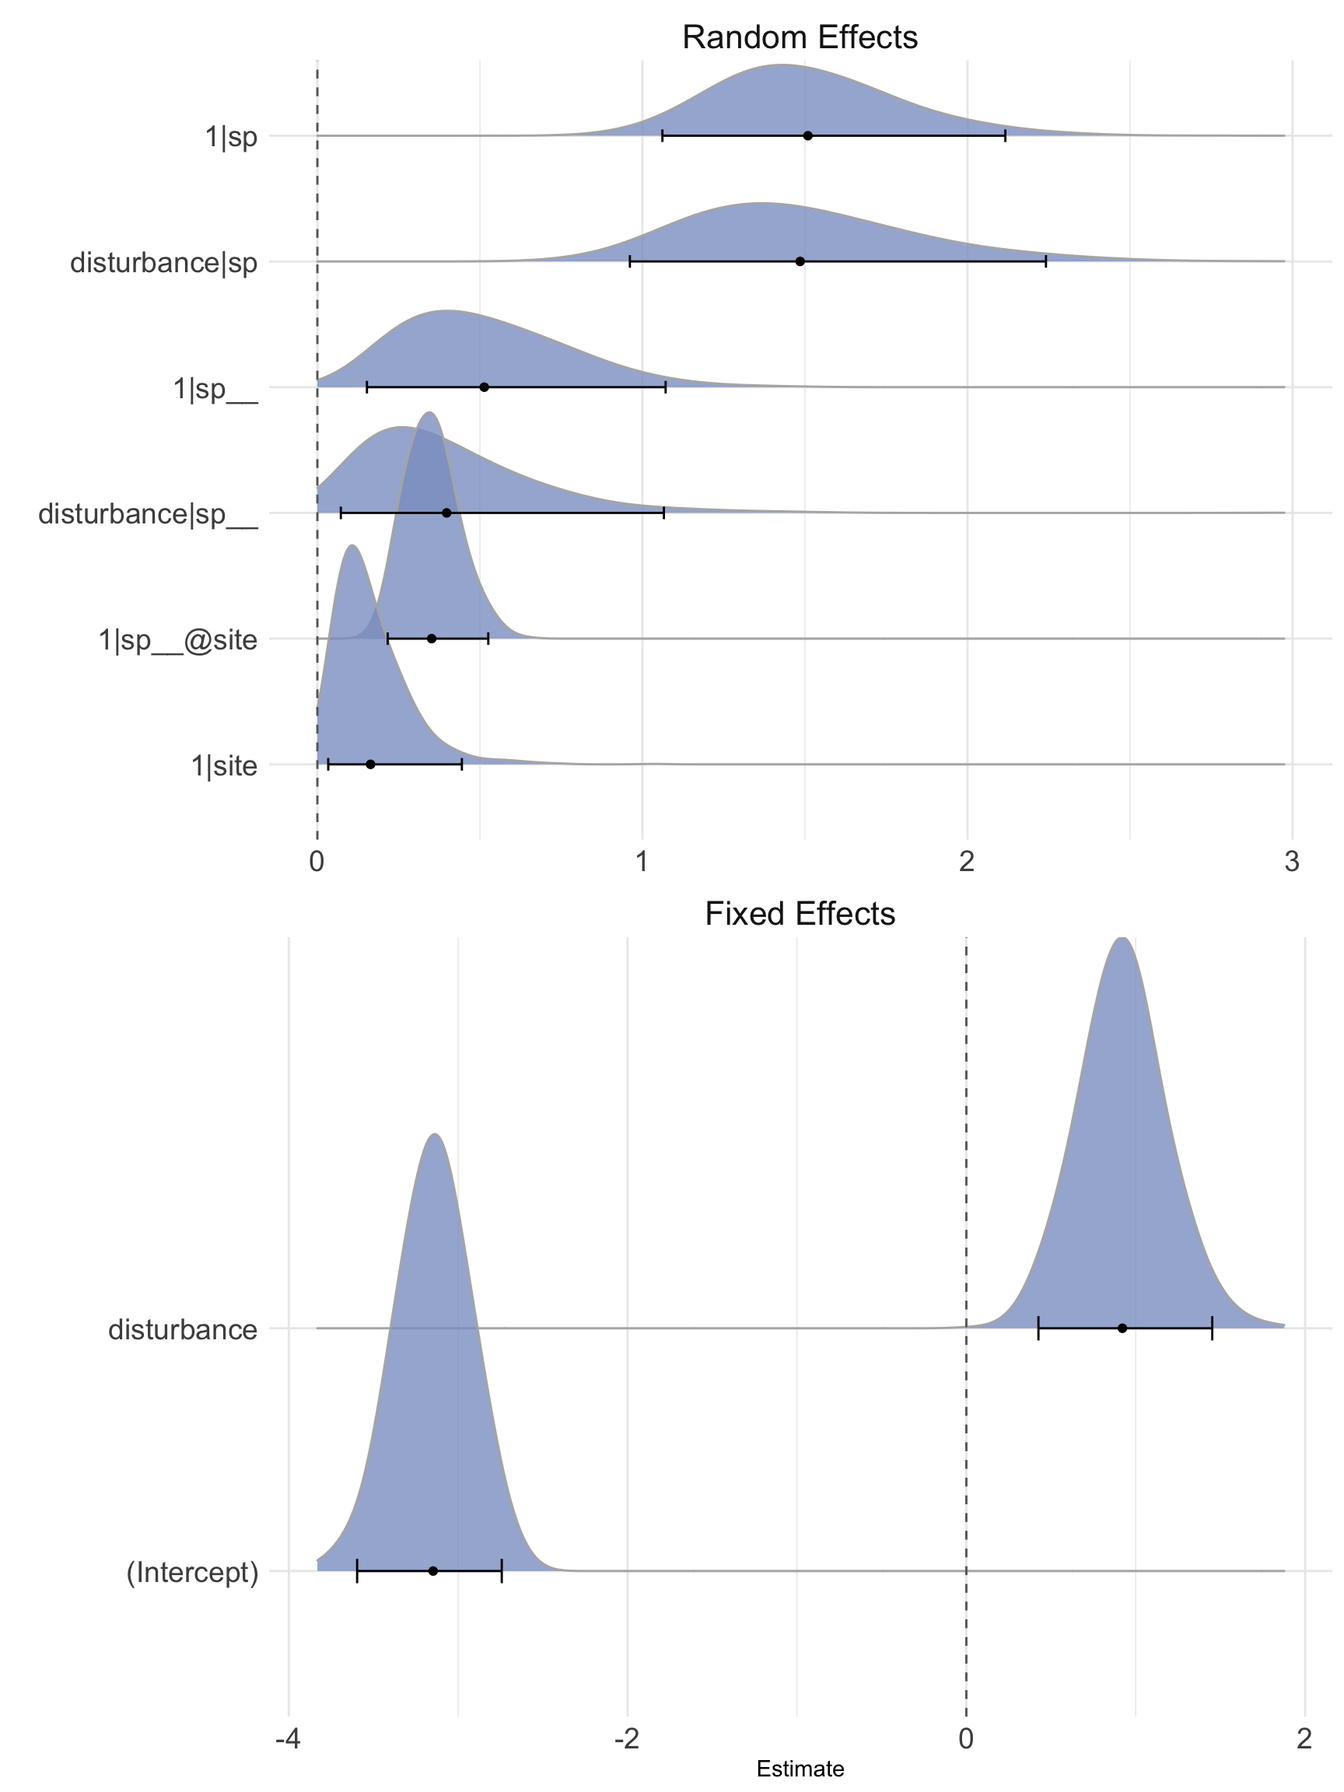
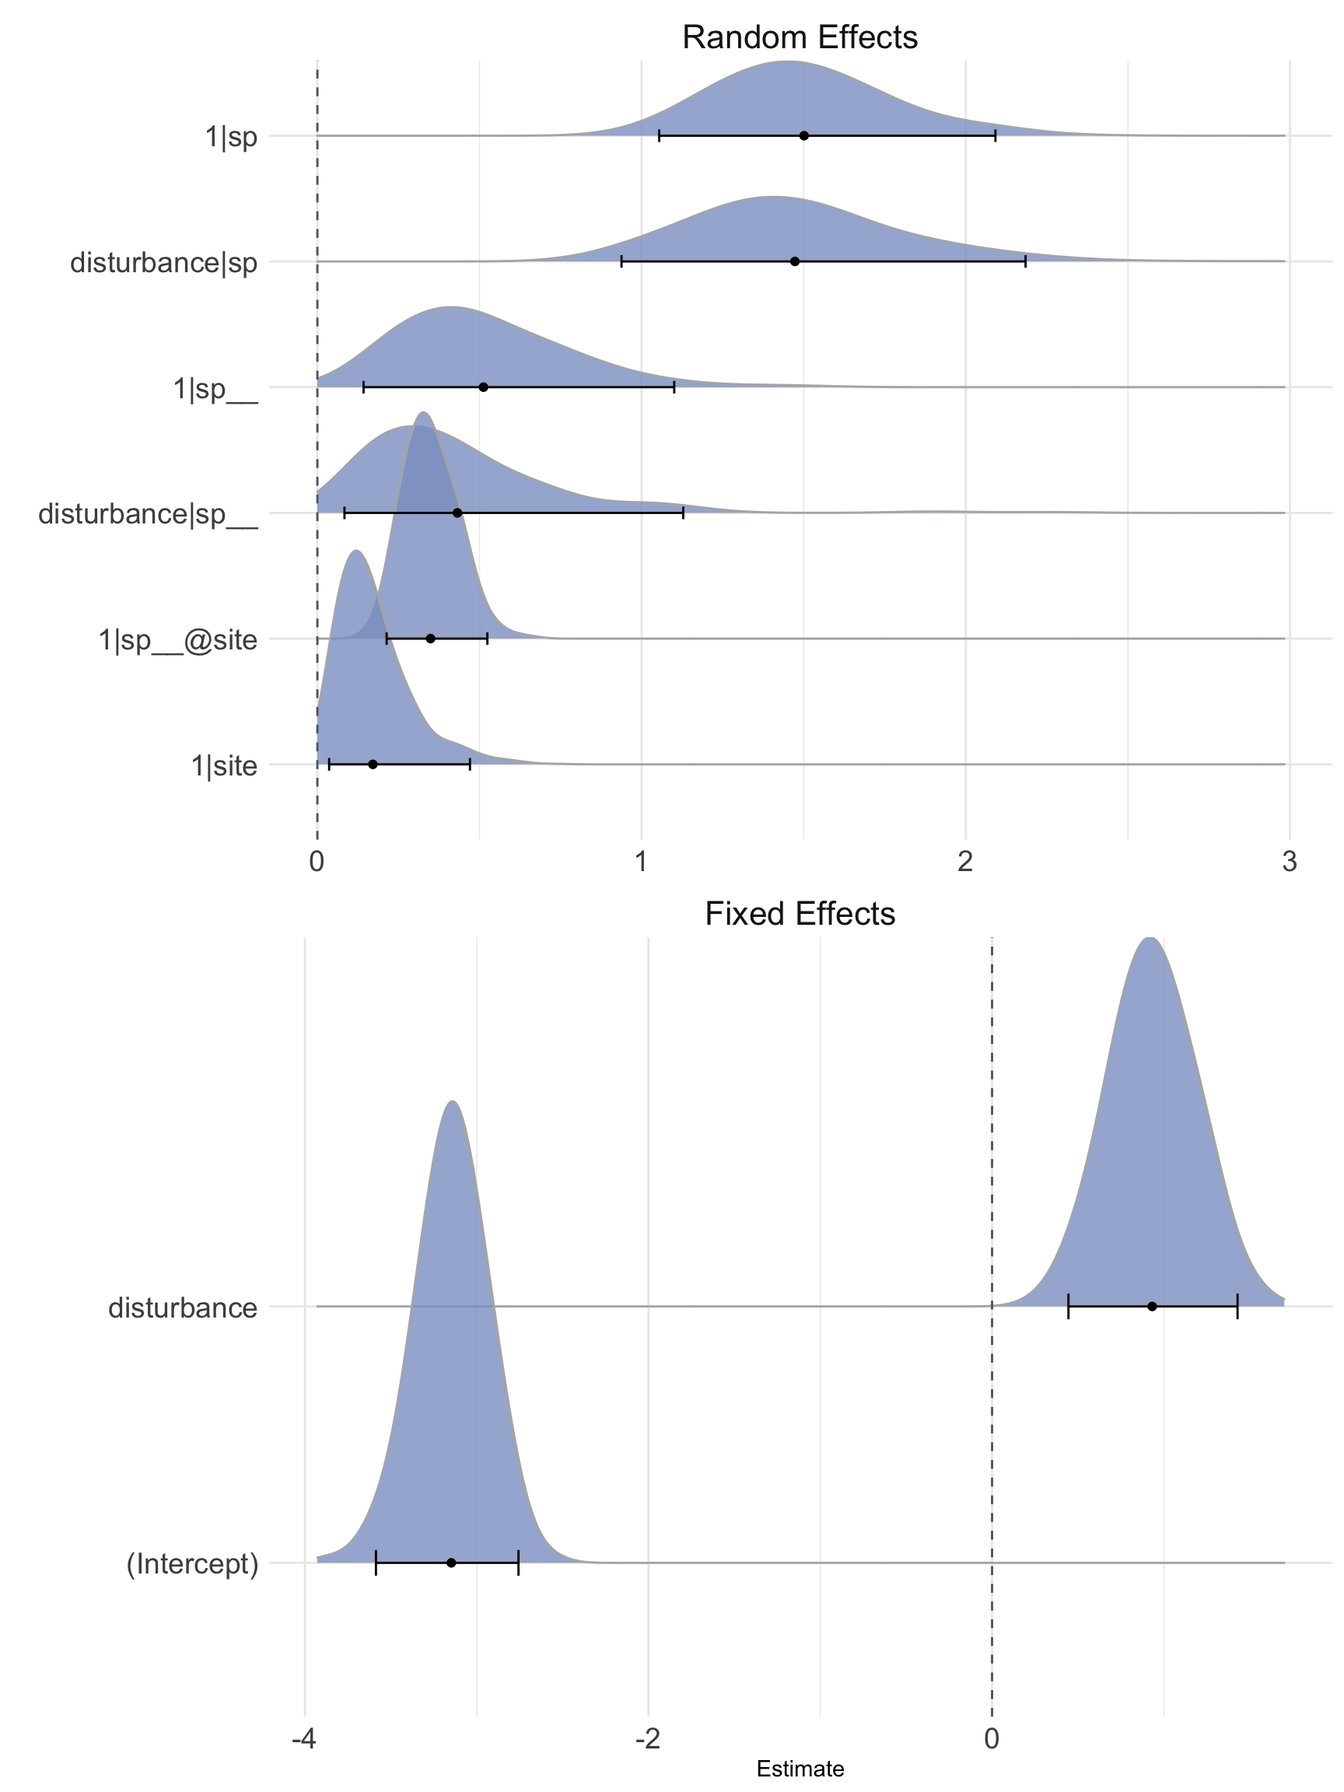
update pkgdown website [skip ci]

diff --git a/docs/articles/phyr_example_empirical.html b/docs/articles/phyr_example_empirical.html
@@ -5,13 +5,13 @@
 <meta charset="utf-8">
 <meta http-equiv="X-UA-Compatible" content="IE=edge">
 <meta name="viewport" content="width=device-width, initial-scale=1.0">
-<title>phyr_example_empirical • phyr</title>
+<title>pglmm example with empirical data • phyr</title>
 <!-- jquery --><script src="https://cdnjs.cloudflare.com/ajax/libs/jquery/3.4.1/jquery.min.js" integrity="sha256-CSXorXvZcTkaix6Yvo6HppcZGetbYMGWSFlBw8HfCJo=" crossorigin="anonymous"></script><!-- Bootstrap --><link rel="stylesheet" href="https://cdnjs.cloudflare.com/ajax/libs/twitter-bootstrap/3.4.1/css/bootstrap.min.css" integrity="sha256-bZLfwXAP04zRMK2BjiO8iu9pf4FbLqX6zitd+tIvLhE=" crossorigin="anonymous">
 <script src="https://cdnjs.cloudflare.com/ajax/libs/twitter-bootstrap/3.4.1/js/bootstrap.min.js" integrity="sha256-nuL8/2cJ5NDSSwnKD8VqreErSWHtnEP9E7AySL+1ev4=" crossorigin="anonymous"></script><!-- bootstrap-toc --><link rel="stylesheet" href="../bootstrap-toc.css">
 <script src="../bootstrap-toc.js"></script><!-- Font Awesome icons --><link rel="stylesheet" href="https://cdnjs.cloudflare.com/ajax/libs/font-awesome/5.12.1/css/all.min.css" integrity="sha256-mmgLkCYLUQbXn0B1SRqzHar6dCnv9oZFPEC1g1cwlkk=" crossorigin="anonymous">
 <link rel="stylesheet" href="https://cdnjs.cloudflare.com/ajax/libs/font-awesome/5.12.1/css/v4-shims.min.css" integrity="sha256-wZjR52fzng1pJHwx4aV2AO3yyTOXrcDW7jBpJtTwVxw=" crossorigin="anonymous">
 <!-- clipboard.js --><script src="https://cdnjs.cloudflare.com/ajax/libs/clipboard.js/2.0.6/clipboard.min.js" integrity="sha256-inc5kl9MA1hkeYUt+EC3BhlIgyp/2jDIyBLS6k3UxPI=" crossorigin="anonymous"></script><!-- headroom.js --><script src="https://cdnjs.cloudflare.com/ajax/libs/headroom/0.11.0/headroom.min.js" integrity="sha256-AsUX4SJE1+yuDu5+mAVzJbuYNPHj/WroHuZ8Ir/CkE0=" crossorigin="anonymous"></script><script src="https://cdnjs.cloudflare.com/ajax/libs/headroom/0.11.0/jQuery.headroom.min.js" integrity="sha256-ZX/yNShbjqsohH1k95liqY9Gd8uOiE1S4vZc+9KQ1K4=" crossorigin="anonymous"></script><!-- pkgdown --><link href="../pkgdown.css" rel="stylesheet">
-<script src="../pkgdown.js"></script><meta property="og:title" content="phyr_example_empirical">
+<script src="../pkgdown.js"></script><meta property="og:title" content="pglmm example with empirical data">
 <meta property="og:description" content="phyr">
 <!-- mathjax --><script src="https://cdnjs.cloudflare.com/ajax/libs/mathjax/2.7.5/MathJax.js" integrity="sha256-nvJJv9wWKEm88qvoQl9ekL2J+k/RWIsaSScxxlsrv8k=" crossorigin="anonymous"></script><script src="https://cdnjs.cloudflare.com/ajax/libs/mathjax/2.7.5/config/TeX-AMS-MML_HTMLorMML.js" integrity="sha256-84DKXVJXs0/F8OTMzX4UR909+jtl4G7SPypPavF+GfA=" crossorigin="anonymous"></script><!--[if lt IE 9]>
 <script src="https://oss.maxcdn.com/html5shiv/3.7.3/html5shiv.min.js"></script>
@@ -60,7 +60,7 @@
       <a href="../articles/pglmm.html">Usage of pglmm()</a>
     </li>
     <li>
-      <a href="../articles/phyr_example_empirical.html">phyr_example_empirical</a>
+      <a href="../articles/phyr_example_empirical.html">pglmm example with empirical data</a>
     </li>
     <li>
       <a href="../articles/plot-re.html">Plot random terms of communityPGLMM</a>
@@ -91,7 +91,7 @@
       </header><div class="row">
   <div class="col-md-9 contents">
     <div class="page-header toc-ignore">
-      <h1 data-toc-skip>phyr_example_empirical</h1>
+      <h1 data-toc-skip>pglmm example with empirical data</h1>
             
       
       <small class="dont-index">Source: <a href="https://github.com/daijiang/phyr/blob/master/vignettes/phyr_example_empirical.Rmd"><code>vignettes/phyr_example_empirical.Rmd</code></a></small>
@@ -113,6 +113,14 @@
 <span class="fu"><a href="https://rdrr.io/r/base/library.html">library</a></span>(<span class="kw"><a href="https://github.com/daijiang/phyr">phyr</a></span>)
 <span class="fu"><a href="https://rdrr.io/r/base/library.html">library</a></span>(<span class="kw"><a href="http://ape-package.ird.fr">ape</a></span>)
 <span class="fu"><a href="https://rdrr.io/r/base/library.html">library</a></span>(<span class="kw"><a href="https://dplyr.tidyverse.org">dplyr</a></span>)
+<span class="co">#&gt; </span>
+<span class="co">#&gt; Attaching package: 'dplyr'</span>
+<span class="co">#&gt; The following objects are masked from 'package:stats':</span>
+<span class="co">#&gt; </span>
+<span class="co">#&gt;     filter, lag</span>
+<span class="co">#&gt; The following objects are masked from 'package:base':</span>
+<span class="co">#&gt; </span>
+<span class="co">#&gt;     intersect, setdiff, setequal, union</span>
 <span class="fu"><a href="https://rdrr.io/r/utils/data.html">data</a></span>(<span class="st">"oldfield"</span>)
 </pre></div>
 <p>The data is a list with two elements. The first element is a phylogeny containing 47 species of plants (all herbaceous forbs) that live in old field habitats in Southern Ontario, Canada. Oldfield habitats typically are found in areas that were formerly cultivated but are now abandoned. This is often considered a successional stage between farmland and secondary forest. This data comes from plots that had experience two “treatments”, one set of plots had been disturbed by field ploughing within a few years of sampling, the other set had not been disturbed in this way recently. Let’s have a look at the phylogeny and data.</p>
@@ -253,17 +261,17 @@
 <span class="co">#&gt; </span>
 <span class="co">#&gt; Random effects:</span>
 <span class="co">#&gt;                  Variance Std.Dev lower.CI upper.CI</span>
-<span class="co">#&gt; 1|sp             2.066571 1.43756 1.097755   4.5151</span>
-<span class="co">#&gt; 1|sp__           0.106195 0.32588 0.020672   1.2172</span>
-<span class="co">#&gt; 1|site           0.007038 0.08389 0.001174   0.1937</span>
-<span class="co">#&gt; disturbance|sp   1.902315 1.37924 0.904636   4.9701</span>
-<span class="co">#&gt; disturbance|sp__ 0.036600 0.19131 0.005833   1.1108</span>
-<span class="co">#&gt; 1|sp__@site      0.103666 0.32197 0.043608   0.2873</span>
+<span class="co">#&gt; 1|sp             2.065600 1.43722 1.097168   4.5138</span>
+<span class="co">#&gt; 1|sp__           0.106341 0.32610 0.020707   1.2167</span>
+<span class="co">#&gt; 1|site           0.007018 0.08377 0.001170   0.1936</span>
+<span class="co">#&gt; disturbance|sp   1.900503 1.37859 0.903554   4.9733</span>
+<span class="co">#&gt; disturbance|sp__ 0.036617 0.19136 0.005835   1.1118</span>
+<span class="co">#&gt; 1|sp__@site      0.103652 0.32195 0.043620   0.2873</span>
 <span class="co">#&gt; </span>
 <span class="co">#&gt; Fixed effects:</span>
 <span class="co">#&gt;                Value lower.CI upper.CI</span>
-<span class="co">#&gt; (Intercept) -3.15279 -3.59926  -2.7476</span>
-<span class="co">#&gt; disturbance  0.92866  0.44727   1.4299</span>
+<span class="co">#&gt; (Intercept) -3.15275 -3.59922  -2.7475</span>
+<span class="co">#&gt; disturbance  0.92867  0.44728   1.4299</span>
 </pre></div>
 <p>“pc.prior.auto” is a good choice of prior I find for binomial models. If you are interested in the details of this kind of prior (known as a penalising complexity prior), check out this paper: <a href="https://arxiv.org/abs/1403.4630" class="uri">https://arxiv.org/abs/1403.4630</a>.</p>
 <p>The results of this model are consistent with the ML model, which is good to see. Now we also have lower and upper credible intervals. We can look at the full approximate marginal posterior distributions of the random effects and fixed effects with the <code>plot_bayes</code> function.</p>
@@ -304,7 +312,7 @@
 <span class="co">#&gt; Models of class pglmm do not have a R2_resid method.</span>
 <span class="co">#&gt; Models of class pglmm with bayes = TRUE do not have a R2_lik method.</span>
 <span class="co">#&gt;   R2_pred </span>
-<span class="co">#&gt; 0.4586559</span>
+<span class="co">#&gt; 0.4586484</span>
 </pre></div>
 <p>There we go! 0.46 for <code>mod_bayes</code>! We can think of this as saying roughly 46% of our response’s variance has been explained by our model, taking into account the various sources of covariance we modeled, subject to a boatload of assumption and caveats of course. That’s handy! See Ives (2018) for the full description of how this R<sup>2</sup> works.</p>
 </div>

diff --git a/docs/articles/pglmm.html b/docs/articles/pglmm.html
@@ -60,7 +60,7 @@
       <a href="../articles/pglmm.html">Usage of pglmm()</a>
     </li>
     <li>
-      <a href="../articles/phyr_example_empirical.html">phyr_example_empirical</a>
+      <a href="../articles/phyr_example_empirical.html">pglmm example with empirical data</a>
     </li>
     <li>
       <a href="../articles/plot-re.html">Plot random terms of communityPGLMM</a>
@@ -124,14 +124,14 @@
 <p>All models fitted with <code><a href="../reference/pglmm.html">pglmm()</a></code> have class of <code>communityPGLMM</code>. Here is a list of functions that can be used to these models.</p>
 <ul>
 <li>
-<code>pglmm.matrix.structure()</code>: produce the whole covariance matrix</li>
+<code><a href="../reference/pglmm_matrix_structure.html">pglmm_matrix_structure()</a></code>: produce the whole covariance matrix</li>
 <li>
-<code>pglmm.plot.re()</code>: plot images of random term matrix, see vignettes <code>plot-re</code><br>
+<code><a href="../reference/pglmm_plot_ranef.html">pglmm_plot_re()</a></code>: plot images of random term matrix, see vignettes <code>plot-re</code><br>
 </li>
 <li>
-<code>pglmm.predicted.values()</code> or <code><a href="https://rdrr.io/r/stats/fitted.values.html">fitted()</a></code>: extract fitted values</li>
+<code><a href="../reference/pglmm_predicted_values.html">pglmm_predicted_values()</a></code> or <code><a href="https://rdrr.io/r/stats/fitted.values.html">fitted()</a></code>: extract fitted values</li>
 <li>
-<code>pglmm.profile.LRT()</code>: to test significance of random terms; only works with binomial models</li>
+<code><a href="../reference/pglmm_profile_LRT.html">pglmm_profile_LRT()</a></code>: to test significance of random terms; only works with binomial models</li>
 <li>
 <code><a href="https://rdrr.io/r/base/summary.html">summary()</a></code>: summary of model fit</li>
 <li>

diff --git a/docs/reference/pglmm.html b/docs/reference/pglmm.html
@@ -108,7 +108,7 @@ install.packages('INLA', repos='https://www.math.ntnu.no/inla/R/stable') in R." 
       <a href="../articles/pglmm.html">Usage of pglmm()</a>
     </li>
     <li>
-      <a href="../articles/phyr_example_empirical.html">phyr_example_empirical</a>
+      <a href="../articles/phyr_example_empirical.html">pglmm example with empirical data</a>
     </li>
     <li>
       <a href="../articles/plot-re.html">Plot random terms of communityPGLMM</a>
@@ -688,7 +688,7 @@ New Phytologist, 214(2), 607-618.</p>
 <span class='fu'><a href='https://rdrr.io/pkg/phyr/man/pglmm.html'>pglmm</a></span>(<span class='kw'>Y</span> <span class='op'>~</span> <span class='fl'>1</span> <span class='op'>+</span> (<span class='fl'>1</span><span class='op'>|</span><span class='kw'>sp__</span>) <span class='op'>+</span> (<span class='fl'>1</span><span class='op'>|</span><span class='kw'>site</span>) <span class='op'>+</span> (<span class='fl'>1</span><span class='op'>|</span><span class='kw'>sp__</span><span class='op'>@</span>site), data = <span class='kw'>d</span>, cov_ranef = <span class='fu'><a href='https://rdrr.io/r/base/list.html'>list</a></span>(sp = <span class='kw'>phy</span>))</div><div class='output co'>#&gt; Linear mixed model fit by restricted maximum likelihood
 #&gt; 
 #&gt; Call:Y ~ 1
-#&gt; &lt;environment: 0x7ff9597922c0&gt;
+#&gt; &lt;environment: 0x7fb20f0d1cf8&gt;
 #&gt; 
 #&gt; logLik    AIC    BIC 
 #&gt; -43.14  98.28  98.48 
@@ -801,7 +801,7 @@ New Phytologist, 214(2), 607-618.</p>
 <span class='kw'>mod.f</span></div><div class='output co'>#&gt; Linear mixed model fit by restricted maximum likelihood
 #&gt; 
 #&gt; Call:Y ~ 1
-#&gt; &lt;environment: 0x7ff9597922c0&gt;
+#&gt; &lt;environment: 0x7fb20f0d1cf8&gt;
 #&gt; 
 #&gt; logLik    AIC    BIC 
 #&gt; -680.7 1379.4 1402.5 

diff --git a/docs/reference/pglmm_compare.html b/docs/reference/pglmm_compare.html
@@ -109,7 +109,7 @@ on a phylogenetic tree." />
       <a href="../articles/pglmm.html">Usage of pglmm()</a>
     </li>
     <li>
-      <a href="../articles/phyr_example_empirical.html">phyr_example_empirical</a>
+      <a href="../articles/phyr_example_empirical.html">pglmm example with empirical data</a>
     </li>
     <li>
       <a href="../articles/plot-re.html">Plot random terms of communityPGLMM</a>
@@ -460,7 +460,7 @@ package <span class="pkg">phylolm</span> and its function <code>phyloglm</code>;
 <span class='fu'><a href='https://rdrr.io/pkg/phyr/man/pglmm_compare.html'>pglmm_compare</a></span>(<span class='kw'>Y</span> <span class='op'>~</span> <span class='kw'>X1</span>, family=<span class='st'>"binomial"</span>, phy=<span class='kw'>phy</span>, data=<span class='kw'>sim.dat</span>)</div><div class='output co'>#&gt; Generalized linear mixed model for binomial data fit by restricted maximum likelihood
 #&gt; 
 #&gt; Call:Y ~ X1
-#&gt; &lt;environment: 0x7ff94e9a4eb8&gt;
+#&gt; &lt;environment: 0x7fb202453b70&gt;
 #&gt; 
 #&gt; logLik    AIC    BIC 
 #&gt;  -58.2  124.4  130.2 
@@ -480,7 +480,7 @@ package <span class="pkg">phylolm</span> and its function <code>phyloglm</code>;
 <span class='kw'>ape</span>::<span class='fu'><a href='https://rdrr.io/pkg/ape/man/binaryPGLMM.html'>binaryPGLMM</a></span>(<span class='kw'>Y</span> <span class='op'>~</span> <span class='kw'>X1</span>, phy=<span class='kw'>phy</span>, data=<span class='kw'>sim.dat</span>)</div><div class='output co'>#&gt; 
 #&gt; 
 #&gt; Call:Y ~ X1
-#&gt; &lt;environment: 0x7ff94e9a4eb8&gt;
+#&gt; &lt;environment: 0x7fb202453b70&gt;
 #&gt; 
 #&gt; Random effect (phylogenetic signal s2):
 #&gt;         s2     Pr

diff --git a/docs/reference/pglmm-plot-data.html b/docs/reference/pglmm-plot-data.html
@@ -102,7 +102,7 @@ function requires the packages ggplot2 and ggridges to be installed." />
       <a href="../articles/pglmm.html">Usage of pglmm()</a>
     </li>
     <li>
-      <a href="../articles/phyr_example_empirical.html">phyr_example_empirical</a>
+      <a href="../articles/phyr_example_empirical.html">pglmm example with empirical data</a>
     </li>
     <li>
       <a href="../articles/plot-re.html">Plot random terms of communityPGLMM</a>
@@ -156,7 +156,7 @@ function requires the packages <code>ggplot2</code> and <code>ggridges</code> to
 )
 
 <span class='co'># S3 method for communityPGLMM</span>
-<span class='fu'><a href='https://rdrr.io/pkg/phyr/man/plot_bayes.html'>plot_bayes</a></span>(<span class='kw'>x</span>, n_samp = <span class='fl'>1000</span>, <span class='kw'>...</span>)</pre>
+<span class='fu'><a href='https://rdrr.io/pkg/phyr/man/plot_bayes.html'>plot_bayes</a></span>(<span class='kw'>x</span>, n_samp = <span class='fl'>1000</span>, sort = <span class='fl'>TRUE</span>, <span class='kw'>...</span>)</pre>
 
     <h2 class="hasAnchor" id="arguments"><a class="anchor" href="#arguments"></a>Arguments</h2>
     <table class="ref-arguments">
@@ -196,6 +196,10 @@ function requires the packages <code>ggplot2</code> and <code>ggridges</code> to
     <tr>
       <th>n_samp</th>
       <td><p>Number of sample from the marginal posterior to take in order to estimate the posterior density.</p></td>
+    </tr>
+    <tr>
+      <th>sort</th>
+      <td><p>Whether to plot different terms in the order of their estimations. Default is 'TRUE'.</p></td>
     </tr>
     </table>
 

diff --git a/docs/articles/index.html b/docs/articles/index.html
@@ -100,7 +100,7 @@
       <a href="../articles/pglmm.html">Usage of pglmm()</a>
     </li>
     <li>
-      <a href="../articles/phyr_example_empirical.html">phyr_example_empirical</a>
+      <a href="../articles/phyr_example_empirical.html">pglmm example with empirical data</a>
     </li>
     <li>
       <a href="../articles/plot-re.html">Plot random terms of communityPGLMM</a>
@@ -143,7 +143,7 @@
         <dd></dt>
         <dt><a href="pglmm.html">Usage of pglmm()</a></dt>
         <dd></dt>
-        <dt><a href="phyr_example_empirical.html">phyr_example_empirical</a></dt>
+        <dt><a href="phyr_example_empirical.html">pglmm example with empirical data</a></dt>
         <dd></dt>
         <dt><a href="plot-re.html">Plot random terms of communityPGLMM</a></dt>
         <dd></dt>

diff --git a/docs/reference/match_comm_tree.html b/docs/reference/match_comm_tree.html
@@ -102,7 +102,7 @@ It will also remove tips from the phylogeny that are not in the community data."
       <a href="../articles/pglmm.html">Usage of pglmm()</a>
     </li>
     <li>
-      <a href="../articles/phyr_example_empirical.html">phyr_example_empirical</a>
+      <a href="../articles/phyr_example_empirical.html">pglmm example with empirical data</a>
     </li>
     <li>
       <a href="../articles/plot-re.html">Plot random terms of communityPGLMM</a>

diff --git a/docs/reference/oldfield.html b/docs/reference/oldfield.html
@@ -105,7 +105,7 @@ experienced a different treatment each; either they has been disturbed (ploughed
       <a href="../articles/pglmm.html">Usage of pglmm()</a>
     </li>
     <li>
-      <a href="../articles/phyr_example_empirical.html">phyr_example_empirical</a>
+      <a href="../articles/phyr_example_empirical.html">pglmm example with empirical data</a>
     </li>
     <li>
       <a href="../articles/plot-re.html">Plot random terms of communityPGLMM</a>

diff --git a/docs/reference/pglmm-predicted-values.html b/docs/reference/pglmm-predicted-values.html
@@ -103,7 +103,7 @@ c(&quot;binomial&quot;,&quot;poisson&quot;), these values are in the transformed
       <a href="../articles/pglmm.html">Usage of pglmm()</a>
     </li>
     <li>
-      <a href="../articles/phyr_example_empirical.html">phyr_example_empirical</a>
+      <a href="../articles/phyr_example_empirical.html">pglmm example with empirical data</a>
     </li>
     <li>
       <a href="../articles/plot-re.html">Plot random terms of communityPGLMM</a>

diff --git a/docs/reference/prep_dat_pglmm.html b/docs/reference/prep_dat_pglmm.html
@@ -102,7 +102,7 @@ prepare a list of random effects, which then can be updated by users for more co
       <a href="../articles/pglmm.html">Usage of pglmm()</a>
     </li>
     <li>
-      <a href="../articles/phyr_example_empirical.html">phyr_example_empirical</a>
+      <a href="../articles/phyr_example_empirical.html">pglmm example with empirical data</a>
     </li>
     <li>
       <a href="../articles/plot-re.html">Plot random terms of communityPGLMM</a>

diff --git a/docs/reference/psd.html b/docs/reference/psd.html
@@ -102,7 +102,7 @@ phylogenetic species variability, richness, evenness and clustering for one or m
       <a href="../articles/pglmm.html">Usage of pglmm()</a>
     </li>
     <li>
-      <a href="../articles/phyr_example_empirical.html">phyr_example_empirical</a>
+      <a href="../articles/phyr_example_empirical.html">pglmm example with empirical data</a>
     </li>
     <li>
       <a href="../articles/plot-re.html">Plot random terms of communityPGLMM</a>

diff --git a/docs/reference/pglmm-matrix-structure.html b/docs/reference/pglmm-matrix-structure.html
@@ -104,7 +104,7 @@ covariance matrix structure (V) when you specify random effects." />
       <a href="../articles/pglmm.html">Usage of pglmm()</a>
     </li>
     <li>
-      <a href="../articles/phyr_example_empirical.html">phyr_example_empirical</a>
+      <a href="../articles/phyr_example_empirical.html">pglmm example with empirical data</a>
     </li>
     <li>
       <a href="../articles/plot-re.html">Plot random terms of communityPGLMM</a>
